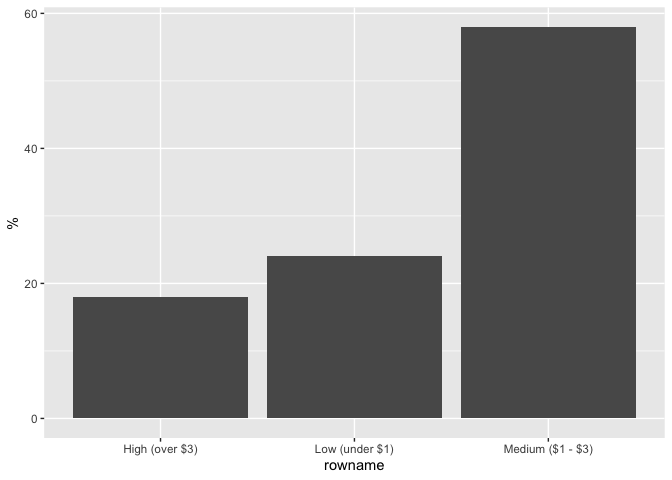
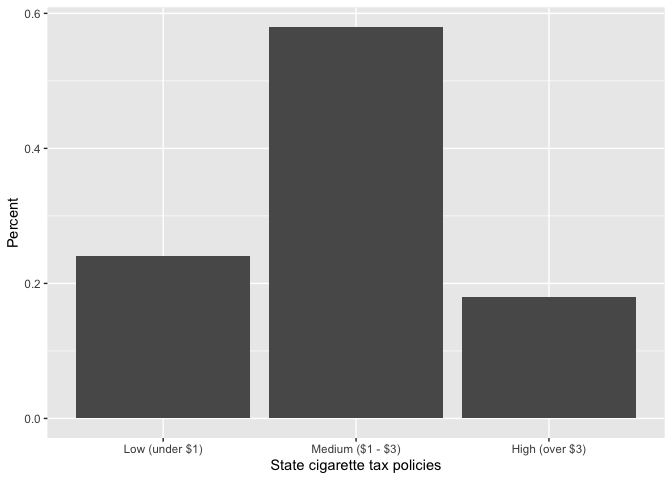
updates

diff --git a/content/post/rtutorial/index.md b/content/post/rtutorial/index.md
@@ -2,6 +2,11 @@
 title: "R/RStudio tutorial"
 author: "William W. Franko"
 date: "2024-05-08"
+output:
+  html_document:
+    toc: true
+    toc_float: true
+    keep_md: true
 ---
 
 <style>
@@ -336,29 +341,35 @@ In the previous section we used the `glimpse()` command to get basic information
 
 The `gtsummary` package is very useful for putting together descriptive statistics, particularly for continuous level variables. It let's us customize the what we include in the descriptive statistics and the package makes it fairly easy to save the tables we create (for example, in ms word format). We'll also need to create some tabulations of our nominal and ordinal level variables. For tabulations we'll use the `questionr` package. 
 
-Let's give it a try. Similar to the other packages we've used, you'll have to install `gtsummary` and `questionr` the first time you use them We'll also be using the `RCPA3` and `tidyverse` packages. 
+Let's give it a try. Similar to the other packages we've used, you'll have to install `gtsummary` and `janitor` the first time you use them We'll also be using the `RCPA3` and `tidyverse` packages. 
 
 
 
 ``` r
 # First install packages if you haven't already.
 #install.packages("gtsummary")
-#install.packages("questionr")
+#install.packages("janitor")
 
 # Load the packages.
 library(gtsummary)
-library(questionr)
+library(janitor)
 ```
 
 ```
 ## 
-## Attaching package: 'questionr'
+## Attaching package: 'janitor'
 ```
 
 ```
-## The following objects are masked from 'package:RCPA3':
+## The following object is masked from 'package:RCPA3':
 ## 
-##     describe, freq, wtd.mean, wtd.var
+##     crosstab
+```
+
+```
+## The following objects are masked from 'package:stats':
+## 
+##     chisq.test, fisher.test
 ```
 
 ``` r
@@ -369,7 +380,6 @@ states %>% # Dataset we want to use.
   select(vep20.turnout, region, cig.tax.3cat) %>% # Select variables we want stats for.
   tbl_summary(missing = "no") # Get the descriptive statistics.
 ```
-
 
 <table style="NAborder-bottom: 0;">
  <thead>
@@ -424,7 +434,6 @@ states %>% # Dataset we want to use.
 <sup>1</sup> Median (IQR); n (%)</td></tr></tfoot>
 </table>
 
-
 A quick note on this code. This is the first time we are using `%>%`, which is called a pipe operator in tidy data language. The idea is that it allows you to "pipe" an object forward to one or more additional functions. In the command above we start with the `states` dataset, then use `select()` to choose the variables from the `states` dataset we want to work with, and finally use the `tbl_summary()` to get our descriptive statistics. 
 
 The first thing you might notice about the output is that the `tbl_summary()` function creates a nicely formatted table by default and diplays it for you in the viewer pane. It also gives the variable labels so we have more information than just the variable names. In our table we are getting descriptive statistics for voter turnout in the states, state region, and data on cigarette tax policies.
@@ -446,9 +455,8 @@ states %>%
     ),
     missing = "no",
     ) %>%
-  add_stat_label(location = "column")
+  add_stat_label(location = "column") 
 ```
-
 
 <table>
  <thead>
@@ -516,41 +524,44 @@ states %>%
 In addition to getting the additional statistics we want, the code also slightly alters the stats we get for categorical variables (percentages with number of observations in parentheses). The last line adds some nice column labels. 
 
 
-The `tbl_summary()` command provides a number of descriptive statistics we might need for our variables, but there are limitations to the information we can get for categorical level variables. We might need, for instance, an easy way to determine the median value of an ordinal level variable. (Why can't we use the median for our nominal level variable?) Frequency tables work well for this task, and they will also be essential when analyzing some bivariate relationships. Let's create a tabulation of the `cig.tax.3cat` variable using the `freq()` function from the `questionr` package. 
+The `tbl_summary()` command provides a number of descriptive statistics we might need for our variables, but there are limitations to the information we can get for categorical level variables. We might need, for instance, an easy way to determine the median value of an ordinal level variable. (Why can't we use the median for our nominal level variable?) Frequency tables work well for this task, and they will also be essential when analyzing some bivariate relationships. Let's create a tabulation of the `cig.tax.3cat` variable using the `tabyl()` function from the `janitor` package. 
 
 
 
 ``` r
 states %>%
-  select(cig.tax.3cat) %>% 
-  questionr::freq()
+  tabyl(cig.tax.3cat)
 ```
 
 ```
-##                   n  % val%
-## Low (under $1)   12 24   24
-## Medium ($1 - $3) 29 58   58
-## High (over $3)    9 18   18
+##      cig.tax.3cat  n percent
+##    Low (under $1) 12    0.24
+##  Medium ($1 - $3) 29    0.58
+##    High (over $3)  9    0.18
 ```
 
 
-This gives us a standard tabulation, which is nice but is essentially the same information given by `tbl_summary()` with the addition of the % valid column, which is useful when we have missing data. It would be really helpful to also include cumulative percentages given that `cig.tax.3cat` is an ordinal level variable. We can also drop the % valid information since it is duplicating the other columns. This is easily done by changing a couple of options within the `freq()` function.
+This gives us a standard tabulation, which is nice but is essentially the same information given by `tbl_summary()`. The table will also include a valid percent column when your data has missing values (this variable doesn't). It would be really helpful to also have a cumulative percentage column given that `cig.tax.3cat` is an ordinal level variable. This is easily done by adding a line using `mutate()` and the `cumsum()` functions.
 
 
 
 ``` r
 states %>%
-  select(cig.tax.3cat) %>% 
-  questionr::freq(cum = TRUE, valid = FALSE)
+  tabyl(cig.tax.3cat) %>%
+  mutate(cumu_percent = cumsum(percent))
 ```
 
 ```
-##                   n  % %cum
-## Low (under $1)   12 24   24
-## Medium ($1 - $3) 29 58   82
-## High (over $3)    9 18  100
+##      cig.tax.3cat  n percent cumu_percent
+##    Low (under $1) 12    0.24         0.24
+##  Medium ($1 - $3) 29    0.58         0.82
+##    High (over $3)  9    0.18         1.00
 ```
 
+
+We use `mutate()` when we want to change or create a new variable. The `cumsum()` function just returns the cumulative sum of whatever variable we pass to it, in this case we wanted the cumulative sum of the percentage column. 
+
+Now that we have the cumulative percentage, we know that the "Medium" category is the median value of the cigarette tax variable. (Remember, for the median value think 50th percentile.)
 
 For some data, it can also be useful to give examples of which observations have high values and which have low values. For instance, we might be interested in which states have the highest and lowest levels of voter turnout. Here is one of many ways to accomplish this using `arrange()`.
 
@@ -627,41 +638,20 @@ Since we already know how to create frequency tables, we'll use these tables for
 ``` r
 # Save frequency table as an object called "tabcig".
 tabcig <- states %>%
-  select(cig.tax.3cat) %>% 
-  questionr::freq() %>%
-  rownames_to_column() # For plotting the category labels.
+  tabyl(cig.tax.3cat) 
   
 # Use the object for the bar plot.
-fig.bar <- ggplot(tabcig, mapping = aes(x = rowname, y = `%`)) +
-  geom_col()
-fig.bar 
-```
-
-![](Rtutorial_files/figure-html/unnamed-chunk-11-1.png)<!-- -->
-
-
-This plot could work, but notice how the categories of our variable are out of order. Here's a quick fix. 
-
-
-
-``` r
-# Reorder the factors.
-tabcig <- tabcig %>%
-  mutate(rowname = factor(rowname, levels = rowname))
-  
-# Plot with labels.
-fig.bar <- ggplot(tabcig, mapping = aes(x = rowname, y = `%`)) +
+fig.bar <- ggplot(tabcig, mapping = aes(x = cig.tax.3cat, y = percent)) +
   geom_col() +
   labs(x = "State cigarette tax policies",
        y = "Percent")
 fig.bar 
 ```
 
-![](Rtutorial_files/figure-html/unnamed-chunk-12-1.png)<!-- -->
+![](Rtutorial_files/figure-html/unnamed-chunk-11-1.png)<!-- -->
 
 
-Now we have the categories in the correct order and added some more descriptive labels. 
-
+Plotting our variables is a useful way of visualizing the properties of the data in addition to using descriptive statistics. 
 
 
 
